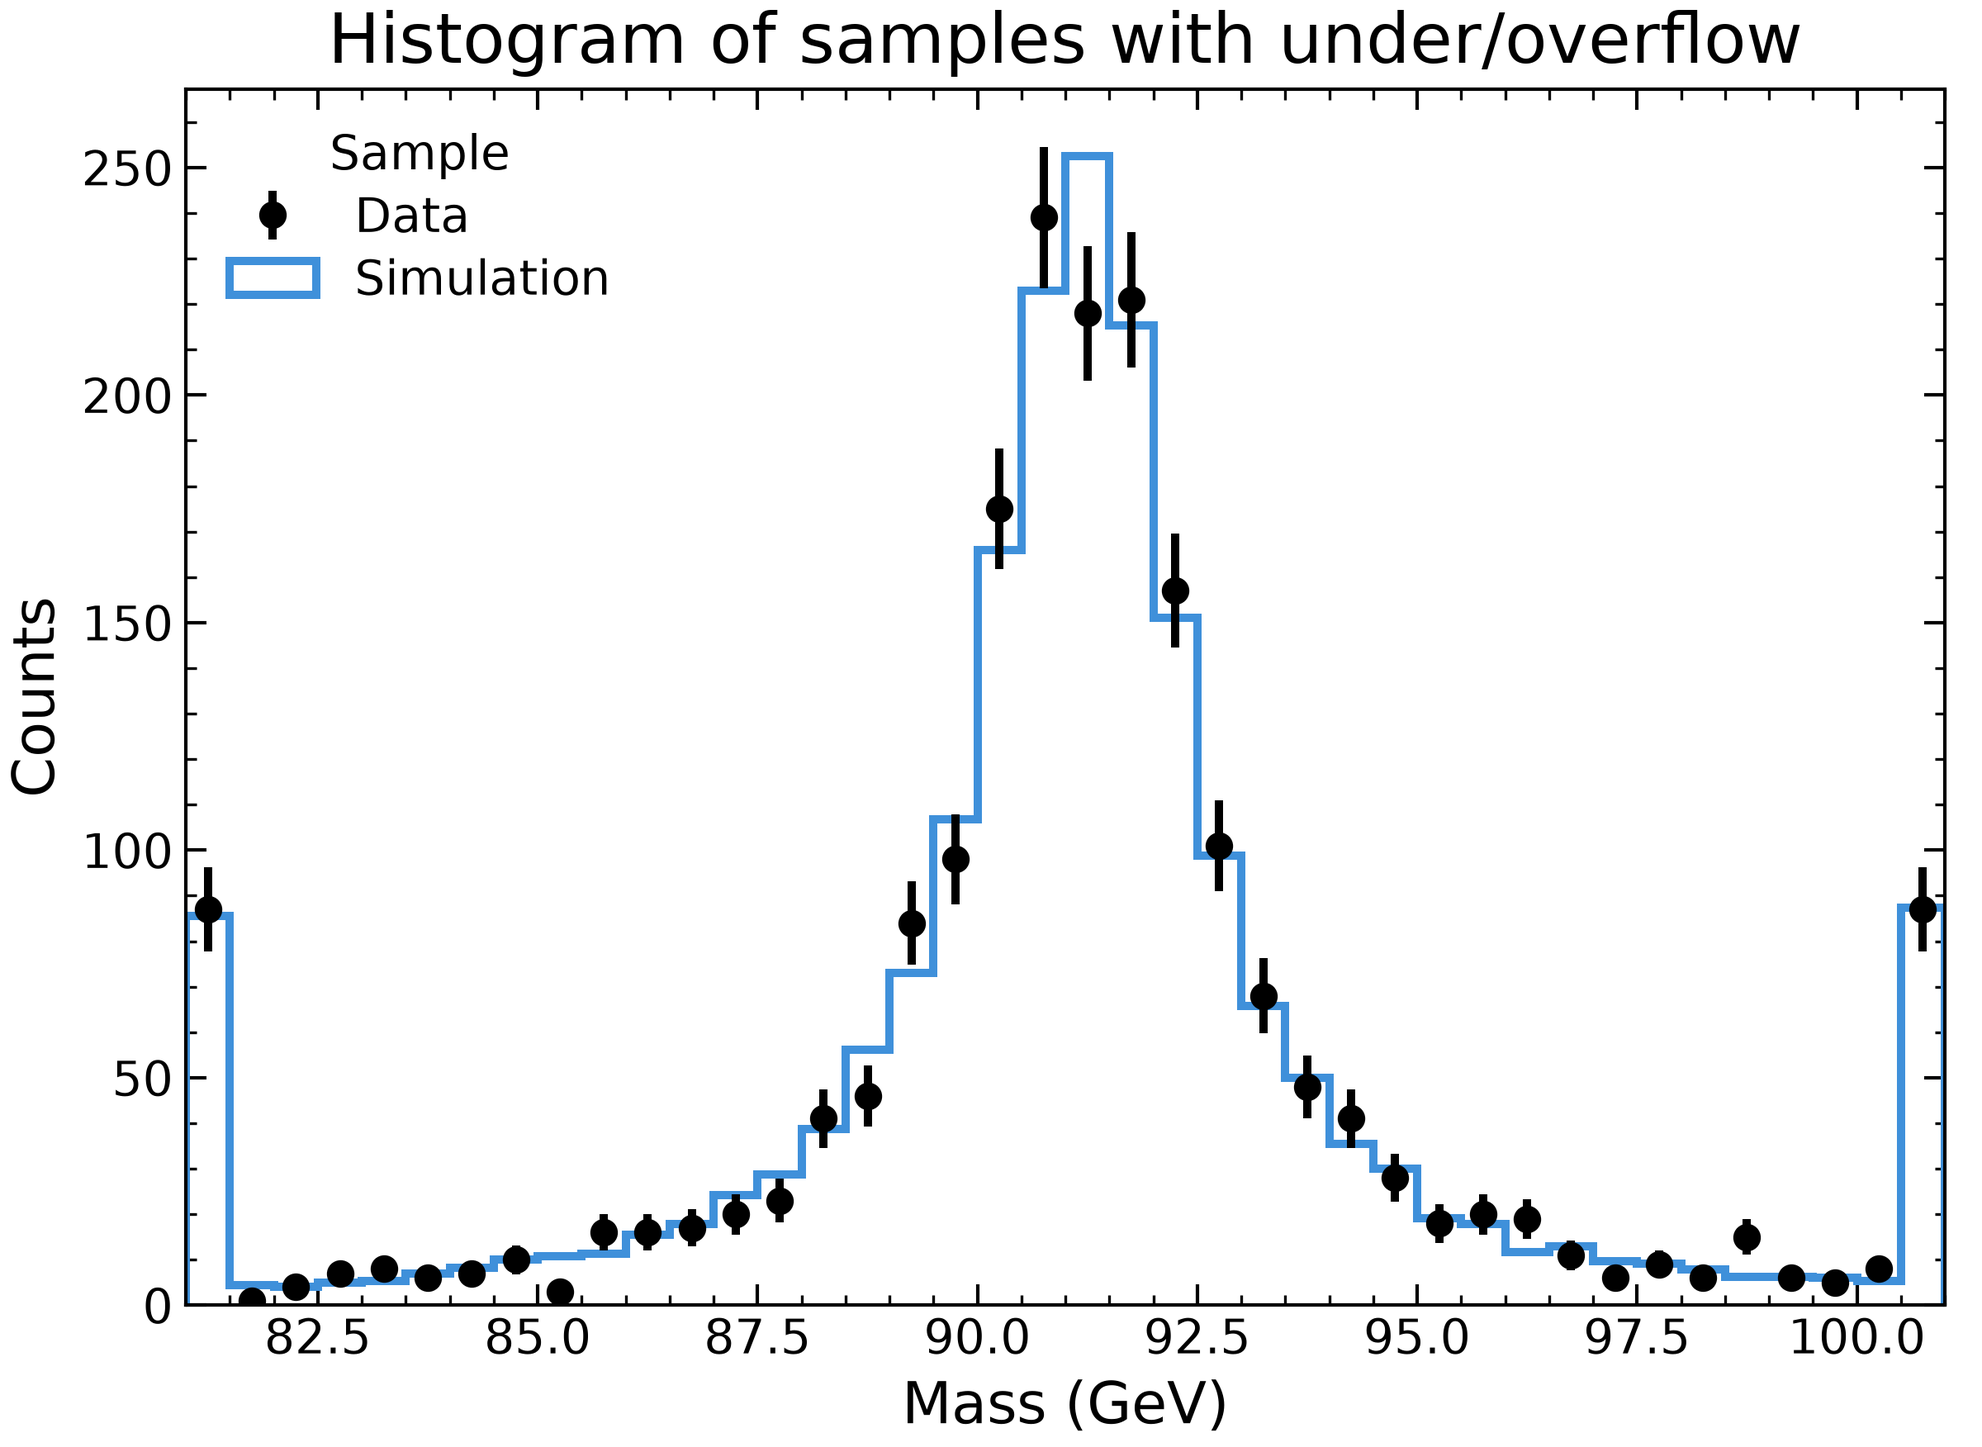
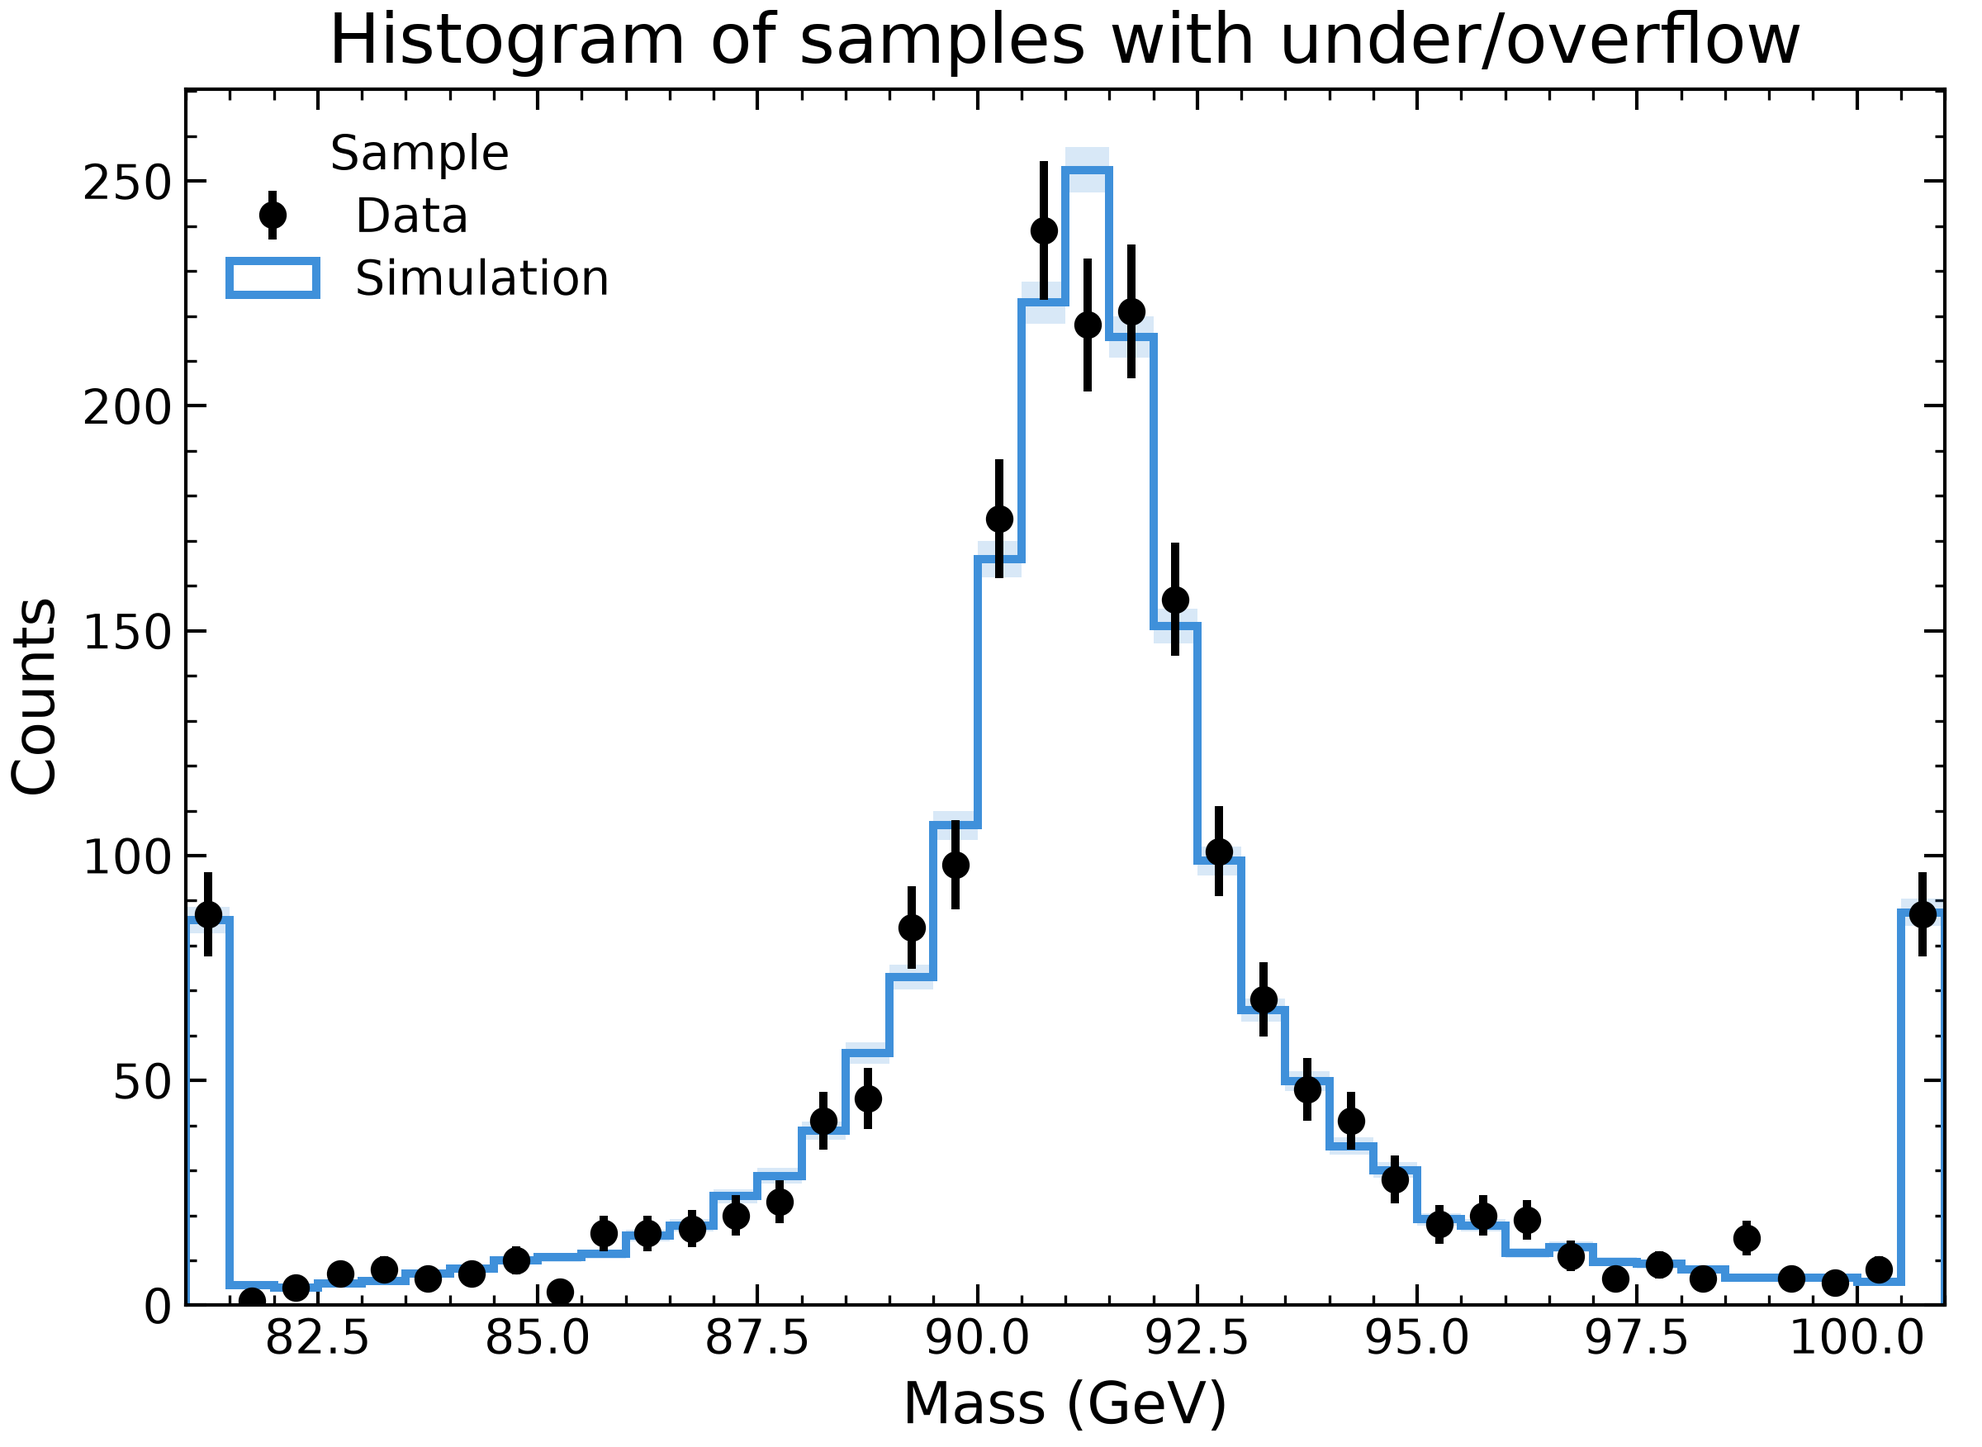
U1: hist step histograms carry a Garwood (or sqrt sum w^2) band by default
Every step histogram now draws its statistical error as a band at 20%
opacity (U7), from its first to its last filled bin, and the y label names
the interval when the counts are unweighted (U6). --no_error drops the band,
the data points' bars and the KDE/ECDF bands; --errory_type poisson keeps
bars on the steps instead of the band. Closes the style guide's last U1 gap.

diff --git a/src/plotipus/kinds/hist.py b/src/plotipus/kinds/hist.py
@@ -55,7 +55,7 @@ def build_parser():
             "vertical", "vertical_label", "vertical_style", "vertical_color", "point", "point_label",
             "vertical_band", "vertical_band_label", "vertical_band_color", "horizontal_band",
             "horizontal_band_label", "horizontal_band_color",
-            "note", "debug", "density", "confidence_level", "error_label",
+            "note", "debug", "density", "confidence_level", "error_label", "no_error",
         ],
         overrides={
             "datafile": {"required": True},
@@ -81,8 +81,8 @@ def build_parser():
         "sqrt(sum of squared weights) with --weight, in the ink colour, first in the legend. The other hue "
         "values stay step histograms.")
     add("--errory_type", type=str, default=None, choices=["poisson"],
-        help="Error bars on every histogram: Poisson (Garwood) intervals of the bin counts, or sqrt(sum of "
-        "squared weights) with --weight (data points always have them).")
+        help="Error bars instead of bands on every histogram: Poisson (Garwood) intervals of the bin counts, or "
+        "sqrt(sum of squared weights) with --weight (data points always have them).")
     add("--overlay_gaussian", nargs="*", type=float, default=None, metavar=("MU", "SIGMA"),
         help="Draw a Gaussian over the histogram, scaled to the first series' entries: the unit normal (no "
         "values; for pull distributions) or MU SIGMA.")
@@ -198,6 +198,20 @@ def bin_errors(x, edges, weights=None, density=False, flow="none", cl=intervals.
         total = np.sum(raw)  # the same factor as histogram(density=True)
         errors = errors / (total * np.diff(edges)) if total > 0 else errors * 0
     return errors
+
+
+def _draw_band(ax, counts, errors, edges, color, zorder=None, offset=0.0):
+    """The 2xN (below, above) ``errors`` of a step histogram as a band at
+    20% opacity behind its steps (rule U7), from its first to its last
+    filled bin: empty bins beyond the sample would only show the upper limit
+    of observing nothing. ``offset`` lifts it (a --ridge row's baseline)."""
+    filled = np.flatnonzero(counts > 0)
+    if not len(filled):
+        return
+    span = slice(filled[0], filled[-1] + 1)
+    counts, errors = offset + np.asarray(counts)[span], np.asarray(errors)[:, span]
+    ax.stairs(counts + errors[1], edges[span.start:span.stop + 1], baseline=counts - errors[0], fill=True,
+              color=color, alpha=0.2, linewidth=0, **({} if zorder is None else {"zorder": zorder}))
 
 
 def _draw_flow_hints(ax, counts, edges, under, over, color):
@@ -381,7 +395,7 @@ def draw_figure(df, args, kdx, config, name):
                            f"fall outside [{edges[0]:g}, {edges[-1]:g}] (--flow {args.flow}).")
                 counts, under, over, errors = histogram_with_errors(x, edges, weights, density=density, flow=args.flow)
                 centres = 0.5 * (edges[1:] + edges[:-1])
-                show_errors = is_data(value) or args.errory_type == "poisson"
+                show_errors = not args.no_error  # rule U1: a band on step histograms, bars on points
                 if args.cumulative:
                     raw, _, _, spread = histogram_with_errors(x, edges, weights, density=False, flow=args.flow)
                     counts, errors = cumulate(raw, spread**2, weights is not None, density,
@@ -392,12 +406,15 @@ def draw_figure(df, args, kdx, config, name):
                     rows_of_ridge.append(("hist", edges, counts, errors if show_errors else None, color, is_data(value),
                                           label))
                 elif is_data(value):
-                    ax.errorbar(centres, counts, yerr=errors, fmt="o", color=color, label=label, zorder=3)
+                    ax.errorbar(centres, counts, yerr=errors if show_errors else None, fmt="o", color=color,
+                                label=label, zorder=3)
                 else:
                     ax.stairs(counts, edges, label=label, color=color, linestyle=_resolve_plot_style(linestyle) or "-",
                               linewidth=style.default_linewidth)
-                    if show_errors:
+                    if show_errors and args.errory_type == "poisson":
                         ax.errorbar(centres, counts, yerr=errors, fmt="none", color=color, linewidth=1)
+                    elif show_errors:
+                        _draw_band(ax, counts, errors, edges, color)
                 if args.flow == "hint" and args.ridge is None and not args.cumulative:
                     _draw_flow_hints(ax, counts, edges, under, over, color)
             elif curve_kind == "kde":
@@ -407,11 +424,12 @@ def draw_figure(df, args, kdx, config, name):
                     scale = (float(np.sum(weights)) if weights is not None else len(x)) * float(np.mean(np.diff(edges)))
                     ys, errors = ys * scale, errors * scale
                 if args.ridge is not None:
-                    rows_of_ridge.append(("kde", grid, ys, errors, color, False, label))
+                    rows_of_ridge.append(("kde", grid, ys, None if args.no_error else errors, color, False, label))
                 else:
                     ax.plot(grid, ys, color=color, linestyle=_resolve_plot_style(linestyle) or "-",
                             linewidth=style.default_linewidth, label=label)
-                    ax.fill_between(grid, ys - errors, ys + errors, color=color, alpha=0.2, linewidth=0)
+                    if not args.no_error:
+                        ax.fill_between(grid, ys - errors, ys + errors, color=color, alpha=0.2, linewidth=0)
             else:
                 grid = np.linspace(edges[0], edges[-1], ECDF_POINTS) if len(x) > ECDF_POINTS else None
                 points, ys, errors = ecdf_curve(x, weights, grid)
@@ -419,12 +437,14 @@ def draw_figure(df, args, kdx, config, name):
                     points = np.concatenate([[min(edges[0], points[0])], points])
                     ys, errors = np.concatenate([[0.0], ys]), np.concatenate([[0.0], errors])
                 if args.ridge is not None:
-                    rows_of_ridge.append(("ecdf", points, ys, errors, color, is_data(value), label))
+                    rows_of_ridge.append(("ecdf", points, ys, None if args.no_error else errors, color, is_data(value),
+                                          label))
                 else:
                     ax.step(points, ys, where="post", color=color, linewidth=style.default_linewidth, label=label,
                             linestyle=_resolve_plot_style(linestyle) or "-", zorder=3 if is_data(value) else 2)
-                    ax.fill_between(points, ys - errors, ys + errors, step="post", color=color, alpha=0.2,
-                                    linewidth=0)
+                    if not args.no_error:
+                        ax.fill_between(points, ys - errors, ys + errors, step="post", color=color, alpha=0.2,
+                                        linewidth=0)
             if args.rug and args.ridge is None:
                 _draw_rug(ax, x, color)
         if rows_of_ridge:
@@ -459,8 +479,9 @@ def draw_figure(df, args, kdx, config, name):
                 default_y = "Density" if density or (args.hist_type == "kde" and kde_density) else "Counts"
             default_y = args.labely if args.labely is not None else default_y
             show = args.error_label if args.error_label is not None else style.error_label
+            # The Garwood intervals of unweighted counts: on every histogram, or the data points over a KDE.
             if (show and args.weight is None and args.hist_type != "ecdf" and not args.cumulative
-                    and (args.errory_type == "poisson" or args.data_hue)):
+                    and not args.no_error and (args.hist_type == "hist" or args.data_hue)):
                 default_y = f"{default_y}, {intervals.label('poisson', args.confidence_level)}"
             ax.set_ylabel(resolve_axis_label(default_y, None, df))
         rangex = panel_rangex(args, idx)
@@ -518,6 +539,8 @@ def _draw_ridges(ax, rows, overlap):
         if kind == "hist":
             ax.stairs(top, x, baseline=base, fill=True, facecolor=to_rgba(color, 0.6), edgecolor=color,
                       linewidth=style.default_linewidth, zorder=z)
+            if errors is not None:
+                _draw_band(ax, scale * y, scale * errors, x, color, zorder=z + 0.005, offset=base)
             continue
         where = "post" if kind == "ecdf" else None
         face = "none" if data else to_rgba(color, 0.6)

diff --git a/tests/test_hist.py b/tests/test_hist.py
@@ -69,9 +69,16 @@ def _capture():
 
 
 def _stairs(ax):
+    """The step outlines (the filled step patches are error bands)."""
     from matplotlib.patches import StepPatch
 
-    return [p for p in ax.patches if isinstance(p, StepPatch)]
+    return [p for p in ax.patches if isinstance(p, StepPatch) and not p.get_fill()]
+
+
+def _bands(ax):
+    from matplotlib.patches import StepPatch
+
+    return [p for p in ax.patches if isinstance(p, StepPatch) and p.get_fill()]
 
 
 def test_hist_flat_outline_spans_all_edges(make_project):
@@ -154,7 +161,7 @@ def test_hist_data_hue_points(tmp_path, monkeypatch):
         registry.figure_hooks.clear()
     ax = figures[0].axes[0]
     points = [c for c in ax.containers if isinstance(c, ErrorbarContainer)]
-    assert len(points) == 1 and len([p for p in ax.patches if type(p).__name__ == "StepPatch"]) == 1
+    assert len(points) == 1 and len(_stairs(ax)) == 1
     errors = points[0].lines[2][0].get_segments()
     counts = points[0].lines[0].get_ydata()
     from plotipus.intervals import garwood
@@ -338,3 +345,77 @@ def test_ridge_stacks_hues_first_on_top(make_project):
     tops = [b.get_paths()[0].vertices[:, 1].max() for b in bodies]
     bases = [2.0, 1.0, 0.0]
     assert np.isclose(max(t - b for t, b in zip(tops, bases)), 1.8, atol=0.05)
+
+
+def test_hist_draws_a_garwood_band_by_default(make_project):
+    """Rule U1: a step histogram carries its statistical error as a band (U7),
+    the Garwood interval of unweighted counts, named in the y label (U6)."""
+    from plotipus.intervals import garwood
+
+    x = np.random.default_rng(3).exponential(1.0, 300)
+    make_project({"Ev": pd.DataFrame({"E": [x]})})
+    figures = _capture()
+    hist.main(["--datafile", "Ev", "-x", "E", "--bins", "12"])
+    ax = figures[0].axes[0]
+    (step,), (band,) = _stairs(ax), _bands(ax)
+    counts = step.get_data().values
+    low, high = garwood(counts)
+    assert np.allclose(band.get_data().values, high) and np.allclose(band.get_data().baseline, low)
+    assert band not in ax.get_legend_handles_labels()[0]
+    assert "68% CL (Poisson)" in ax.get_ylabel()
+
+
+def test_hist_weighted_band_is_sqrt_sum_of_squared_weights(make_project):
+    rng = np.random.default_rng(4)
+    x, w = rng.uniform(0, 1, 500), rng.uniform(0.5, 2.0, 500)
+    make_project({"Ev": pd.DataFrame({"E": [x], "W": [w]})})
+    figures = _capture()
+    hist.main(["--datafile", "Ev", "-x", "E", "--weight", "W", "--bins", "5", "--rangex", "0", "1"])
+    ax = figures[0].axes[0]
+    (step,), (band,) = _stairs(ax), _bands(ax)
+    sumw2 = np.sqrt(np.histogram(x, bins=step.get_data().edges, weights=w**2)[0])
+    assert np.allclose(band.get_data().values - step.get_data().values, sumw2)
+    assert "CL" not in ax.get_ylabel()
+
+
+def test_hist_no_error_draws_no_band_and_no_bars(tmp_path, monkeypatch):
+    from matplotlib.container import ErrorbarContainer
+
+    from plotipus import registry
+
+    make_project(tmp_path, monkeypatch, {"Energies": _frame()})
+    figures = []
+    registry.add_figure_hook(lambda fig, args: figures.append(fig))
+    try:
+        hist.main(["--datafile", "Energies", "-x", "True", "--hue", "Sample", "--data_hue", "a", "--bins", "20",
+                   "--no_error"])
+    finally:
+        registry.figure_hooks.clear()
+    ax = figures[0].axes[0]
+    assert _bands(ax) == []
+    (points,) = [c for c in ax.containers if isinstance(c, ErrorbarContainer)]
+    assert not points.has_yerr
+    assert "CL" not in ax.get_ylabel()
+
+
+def test_hist_errory_type_poisson_keeps_bars_instead_of_the_band(make_project):
+    from matplotlib.container import ErrorbarContainer
+
+    make_project({"Ev": pd.DataFrame({"E": [np.random.default_rng(5).normal(0, 1, 200)]})})
+    figures = _capture()
+    hist.main(["--datafile", "Ev", "-x", "E", "--bins", "8", "--errory_type", "poisson"])
+    ax = figures[0].axes[0]
+    assert _bands(ax) == []
+    assert len([c for c in ax.containers if isinstance(c, ErrorbarContainer)]) == 1
+
+
+def test_hist_band_spans_the_filled_bins_only(make_project):
+    """No band over the empty bins beyond a sample (the upper limit of seeing
+    nothing); an empty bin inside it keeps its band."""
+    x = np.concatenate([np.full(5, 2.5), np.full(3, 4.5)])
+    make_project({"Ev": pd.DataFrame({"E": [x]})})
+    figures = _capture()
+    hist.main(["--datafile", "Ev", "-x", "E", "--bins", "8", "--rangex", "0", "8"])
+    (band,) = _bands(figures[0].axes[0])
+    assert band.get_data().edges.tolist() == [2.0, 3.0, 4.0, 5.0]
+    assert band.get_data().values[1] > 1.8  # the empty bin between: up to Garwood's 1.84

diff --git a/docs/styleguide.md b/docs/styleguide.md
@@ -115,15 +115,17 @@ enforceable version. Where the two differ, this guide is the target.
     integer counts get Garwood intervals and `--count_column` efficiencies
     Clopper–Pearson, each with a warning; other series warn that they have
     none. `--no_error` draws no errors and silences the warnings. `hist`
-    draws data with Garwood intervals; simulation histograms carry no band,
-    and `scatter` shows single observations without errors.
+    draws data with Garwood intervals and every step histogram with a band
+    of them (√Σw² with `--weight`) from its first to its last filled bin;
+    `--no_error` drops both. `scatter` shows single observations without
+    errors.
 - **U2. 68.3% (one σ) unless stated.** ✅ `--confidence_level` changes it,
   and the label then says so.
 - **U3. The interval suits the quantity**:
 
   | quantity | interval | why not the simple one | plotipus |
   |---|---|---|---|
-  | unweighted counts n | Garwood (exact Poisson), asymmetric | √n is 0 at n = 0, and goes below 0 for small n | ✅ the default for counts without an error column (`line`, `cat`, `hist` data, tables); `--errory_type poisson` forces it |
+  | unweighted counts n | Garwood (exact Poisson), asymmetric | √n is 0 at n = 0, and goes below 0 for small n | ✅ the default for counts without an error column (`line`, `cat`, `hist`, tables); `--errory_type poisson` forces it |
   | weighted counts | √Σw² | — | ✅ `hist --weight`, stack totals |
   | efficiency k/N | Clopper–Pearson, asymmetric, inside [0, 1] | the binomial √(ε(1−ε)/N) is 0 at ε = 0 and 1, and leaves [0, 1] | ✅ plots: `--count_column N` (forced by `--errory_type clopper_pearson`); tables: `Passed`/`Total` columns, or `--clopper_pearson` |
   | binned mean / median | standard error of the statistic | the spread (std) is not the uncertainty of the mean | ✅ `--binned --estimator mean` |
@@ -352,5 +354,4 @@ the authors got wrong. Both sides are recreations, not official results.
 
 | rule | gap | proposed change |
 |---|---|---|
-| U1 | `hist` draws simulation without its statistical error | A √Σw² band (Garwood for unweighted counts) by default, `--no_error` to drop it |
 | C1 | Colours follow value order unless a mapping pins them | A project-level colour registry that stores each new category's colour on first use |

diff --git a/docs/options.md b/docs/options.md
@@ -305,8 +305,13 @@ set:
 
 ## Histograms
 
-`hist` bins per-event arrays, every hue over the same edges. `--weight COL`
-weights the entries (here the simulation down to the data total), `--density`
+`hist` bins per-event arrays, every hue over the same edges. Each step
+histogram carries its statistical error as a band, from its first to its
+last filled bin: the Garwood (Poisson) interval of the counts, or √Σw² with
+`--weight COL`, which weights the entries (here the simulation down to the
+data total). `--data_hue` values are points with error bars instead;
+`--errory_type poisson` puts bars on the steps too, in place of the band,
+and `--no_error` draws neither. `--density`
 normalises each histogram to unit area, and `--flow` handles the entries
 outside the range: `none` drops them, `hint` marks them beyond the outer
 edge, `show` adds them to the first/last bin. Their number is printed in
